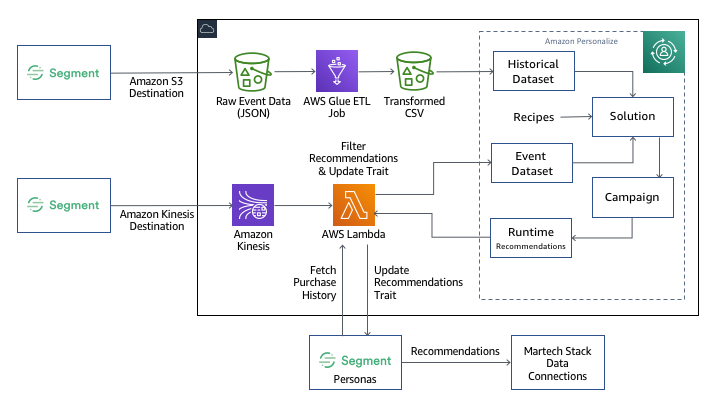
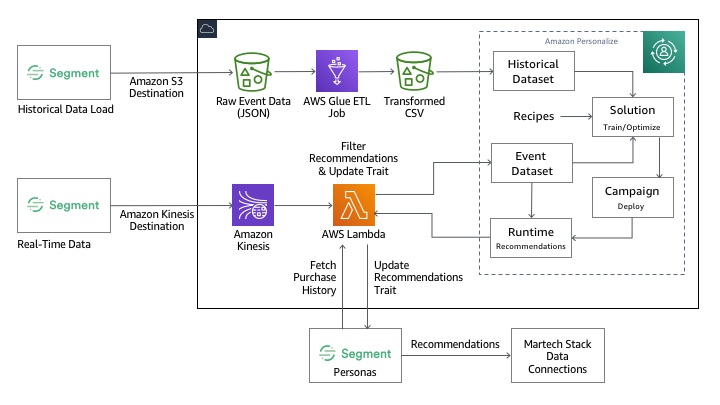
Exercise documentation

diff --git a/exercise2/README.md b/exercise2/README.md
@@ -1,5 +1,5 @@
 
-# Exercise 2 - Create Personalize Dataset Group and Solution
+# Exercise 2 - Create Personalize Dataset Group, Solution, and Campaign
 
 ## Overview
 
